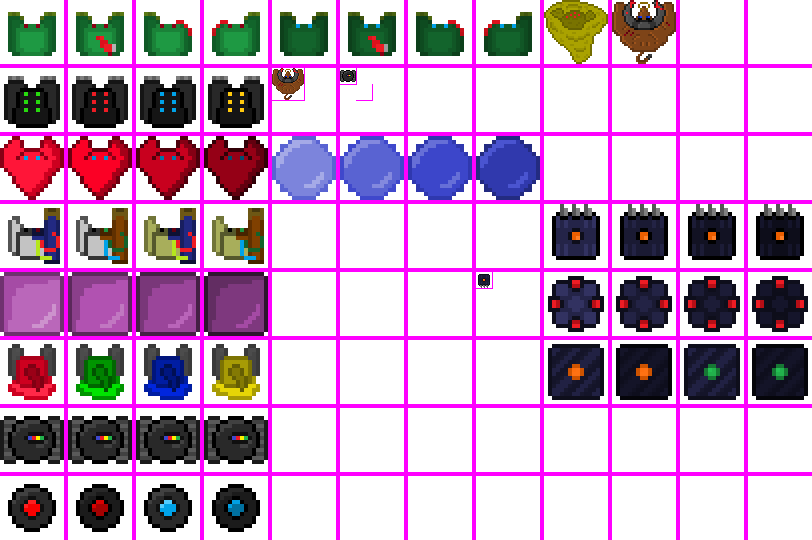
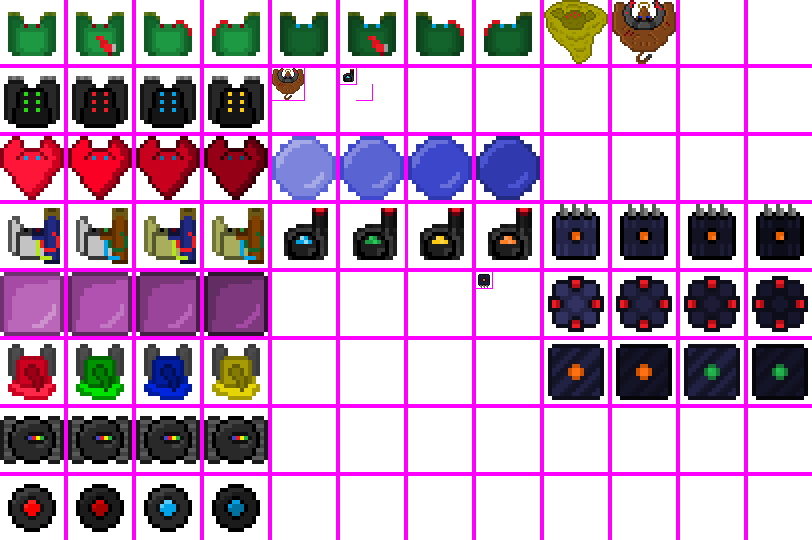
marine

Changed region(s): [[0.3387, 0.3852, 0.6773, 0.5037], [0.4002, 0.1185, 0.4618, 0.1481]]

diff --git a/app/index.html b/app/index.html
@@ -77,6 +77,7 @@
 	<script src="src/gameplay/entities/projectiles/monsterProjectiles/stormOrbSpikeProjectile.js"></script>
 	<script src="src/gameplay/entities/projectiles/monsterProjectiles/laserAcoliteOrbProjectile.js"></script>
 	<script src="src/gameplay/entities/projectiles/monsterProjectiles/mazeLordFireBreathProjectile.js"></script>
+	<script src="src/gameplay/entities/projectiles/monsterProjectiles/marineLaserProjectile.js"></script>	
 	<script src="src/gameplay/entities/projectiles/projectileSpawner.js"></script>
 	<script src="src/gameplay/entities/particles/_particle.js"></script>
 	<script src="src/gameplay/entities/particles/bloodParticle.js"></script>
@@ -107,6 +108,7 @@
 	<script src="src/gameplay/entities/monsters/stormOrb.js"></script>
 	<script src="src/gameplay/entities/monsters/laserAcolyte.js"></script>
 	<script src="src/gameplay/entities/monsters/mazeMaster.js"></script>
+	<script src="src/gameplay/entities/monsters/marine.js"></script>
 	<script src="src/gameplay/entities/monsters/monsterFactory.js"></script>
 	<script src="src/gameplay/entities/items/_item.js"></script>
 	<script src="src/gameplay/entities/items/healthKit.js"></script>
@@ -146,6 +148,7 @@
 	<script src="src/gameplay/actions/monsterActions/laserAcoliteAttack.js"></script>
 	<script src="src/gameplay/actions/monsterActions/mazeMasterStomp.js"></script>
 	<script src="src/gameplay/actions/monsterActions/mazeLordFireBreathAttack.js"></script>
+	<script src="src/gameplay/actions/monsterActions/marineLaserAttack.js"></script>
 	<!-- 	stages 		-->
 	<script src="src/gameplay/stage/stageLoader.js"></script>
 	<script src="src/gameplay/stage/stage.js"></script>

diff --git a/app/src/gameplay/entities/monsters/marine.js b/app/src/gameplay/entities/monsters/marine.js
@@ -1,0 +1,41 @@
+"use strict";
+class Marine extends _Monster {
+
+    constructor(){
+        super();
+        this.tileX = Util.randInt(4, 7);
+        this.tileY = 3;
+        this.maxHp = Util.randInt(25, 30);
+        this.displaySize = Util.randFloat(1.1, 1.3);
+        this.defence = 35;
+        this.speed = Util.randFloat(0.033, 0.036);
+
+        this.laserAttack = new MarineLaserAttack(this);
+    }
+
+    _onDamaged(d){
+        super._onDamaged(d);
+        ParticleSpawner.createExplosion(BloodParticle, this.x, this.y, Util.randInt(1, d/3));
+
+    }
+
+    _onExpire(){
+        super._onExpire();
+        ParticleSpawner.createExplosion(BloodParticle, this.x, this.y, Util.randInt(15, 25));
+    }
+
+    _doExist(thisEntity){
+        var p = StageManager.currentStage.player;
+        var dir = thisEntity.getDirectionToPoint(p.x, p.y);
+        var dist = thisEntity.getDistanceToPoint(p.x, p.y);
+        if(dist < 7) {
+            thisEntity.laserAttack.execute();
+        }
+        if(dist > 4) {
+            thisEntity.travel(dir);
+        }
+        thisEntity.turn(dir);
+        thisEntity.checkForInWall();
+        thisEntity.doCheckCollisions();
+    }
+}

diff --git a/app/src/gameplay/entities/projectiles/monsterProjectiles/marineLaserProjectile.js b/app/src/gameplay/entities/projectiles/monsterProjectiles/marineLaserProjectile.js
@@ -1,0 +1,26 @@
+"use strict";
+class MarineLaserProjectile extends _DamagingProjectile {
+
+    constructor(parentEntity, direction, x, y){
+        super(parentEntity, direction, x, y);
+
+        this.speed = 0.12
+        this.minDmg = 3;
+        this.maxDmg = 5;
+        this.duration = Util.randInt(70, 90);
+        this.accuracy = 96;
+    
+        this.tileX = 0;
+        this.tileY = 1;
+        
+        this.collisionSize = 0.1;
+        this.displaySize = 0.4;
+        this.collidesPlayer = true;
+    }
+
+    _onExpire(){
+        super._onExpire();
+        ParticleSpawner.createExplosion(RedSparkParticle,  this.x, this.y, Util.randInt(1, 3));
+    }
+
+}

diff --git a/app/src/gameplay/entities/monsters/monsterFactory.js b/app/src/gameplay/entities/monsters/monsterFactory.js
@@ -18,6 +18,7 @@ const MonsterFactory = {
         13: StormOrb,
         14: LaserAcolyte,
         15: MazeMaster,
+        16: Marine,
 
         default : Zombie
     },
@@ -30,7 +31,7 @@ const MonsterFactory = {
     getMonster(id, x, y){
         
         // TODO REMOVE TEST
-        id = Util.randInt(0, 15);
+        id = Util.randInt(16, 16);
 
         var monsterClass = this._monsterTypeDict[id] ? this._monsterTypeDict[id] : this._monsterTypeDict.default;
         var monster = new monsterClass();

diff --git a/app/src/gameplay/actions/monsterActions/marineLaserAttack.js b/app/src/gameplay/actions/monsterActions/marineLaserAttack.js
@@ -1,0 +1,19 @@
+"use strict";
+class MarineLaserAttack extends _Action {
+
+    constructor(user){
+        super(user);
+        this.cooldownDuration = 3000;
+    }
+
+    onSuccess(){
+        this.user.speed /= 2;
+        setTimeout(e => {e.speed *= 2;}, 1000, this.user);
+        for(var i = 0; i < 10; i++){
+            this.doOnDelay(a => {
+                ProjectileSpawner.spawn(MarineLaserProjectile, a.user, a.user.x, a.user.y, a.user.direction);
+            }, i * 100);
+        }
+    }
+
+}
